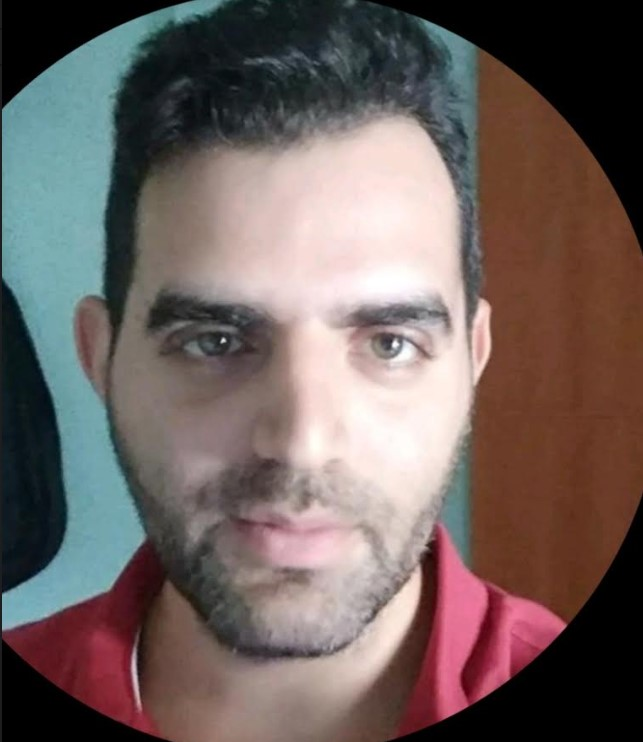
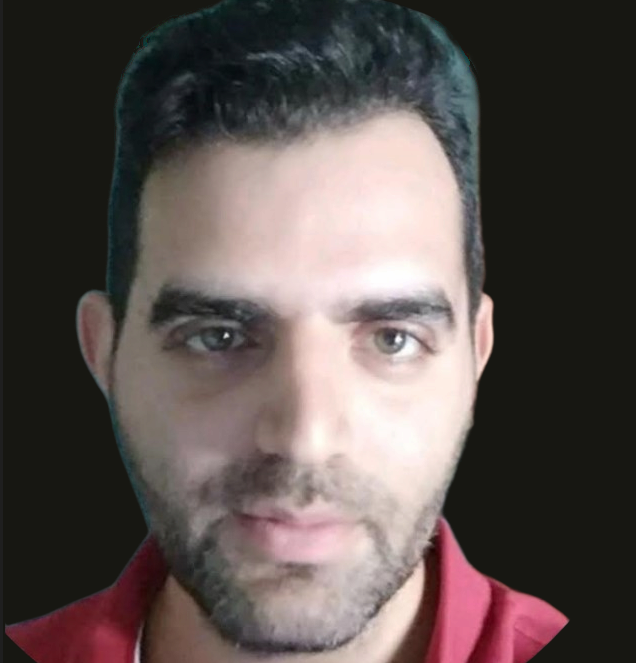
photo modified

diff --git a/src/components/home/home.css b/src/components/home/home.css
@@ -71,11 +71,12 @@
   background-position: center;
   background-size: cover;
   width: 300px;
-  height: 300px;
+  height: 320px;
   box-shadow: inset 0 0 0 9px rgb(255, 255, 255 / 30%);
-  border-radius: 50%;
+  border-radius: 40%;
   justify-self: center;
   margin-bottom: 220px;
+  margin-top: 10px;
 }
 
 
